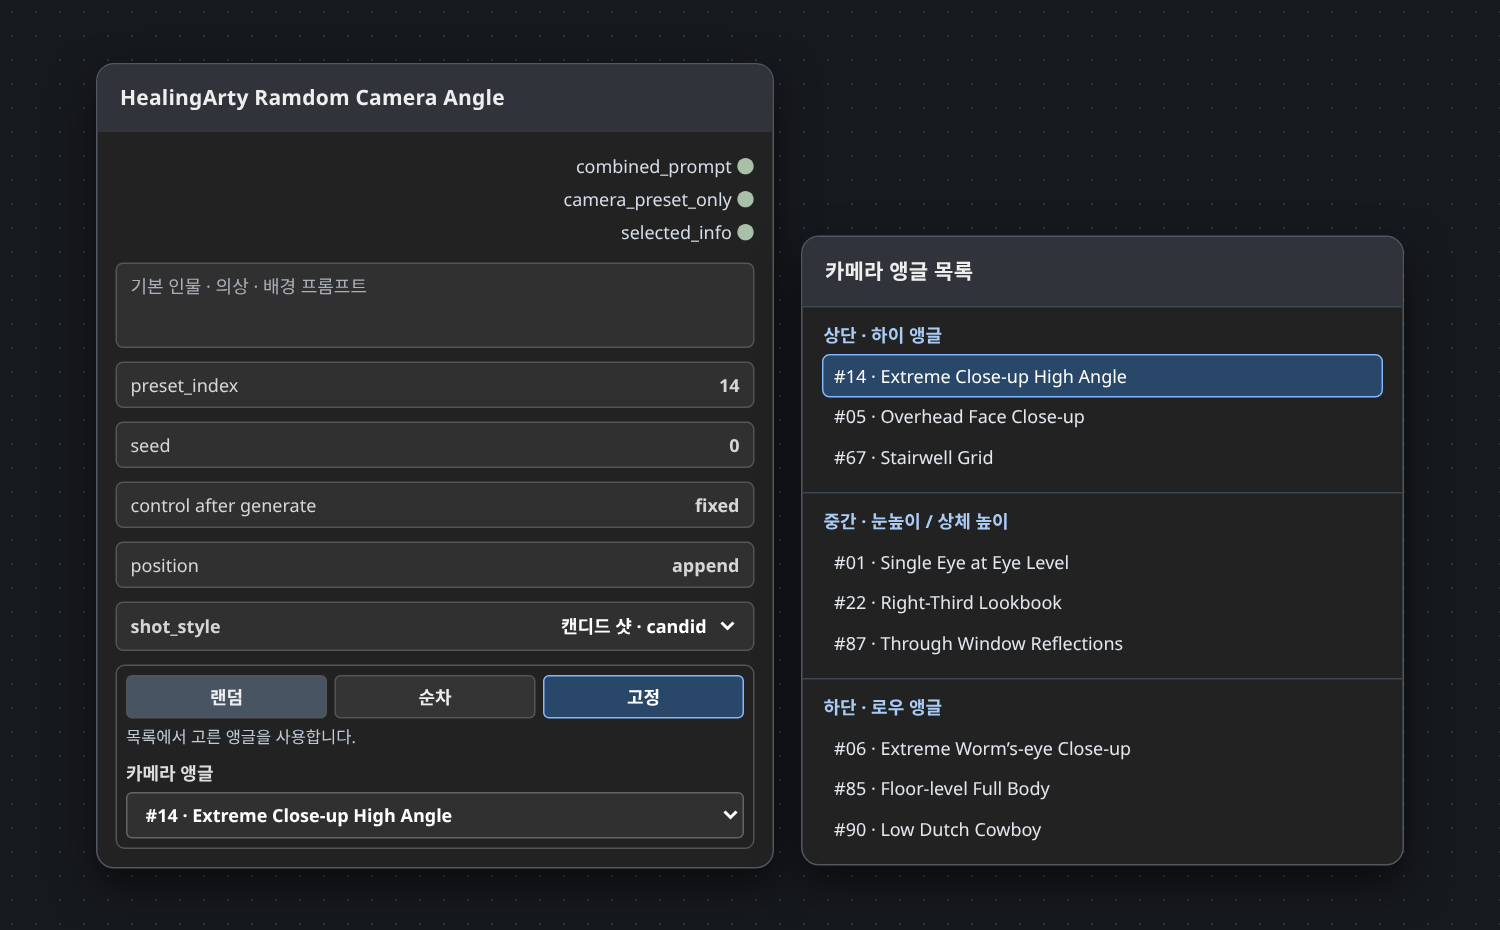
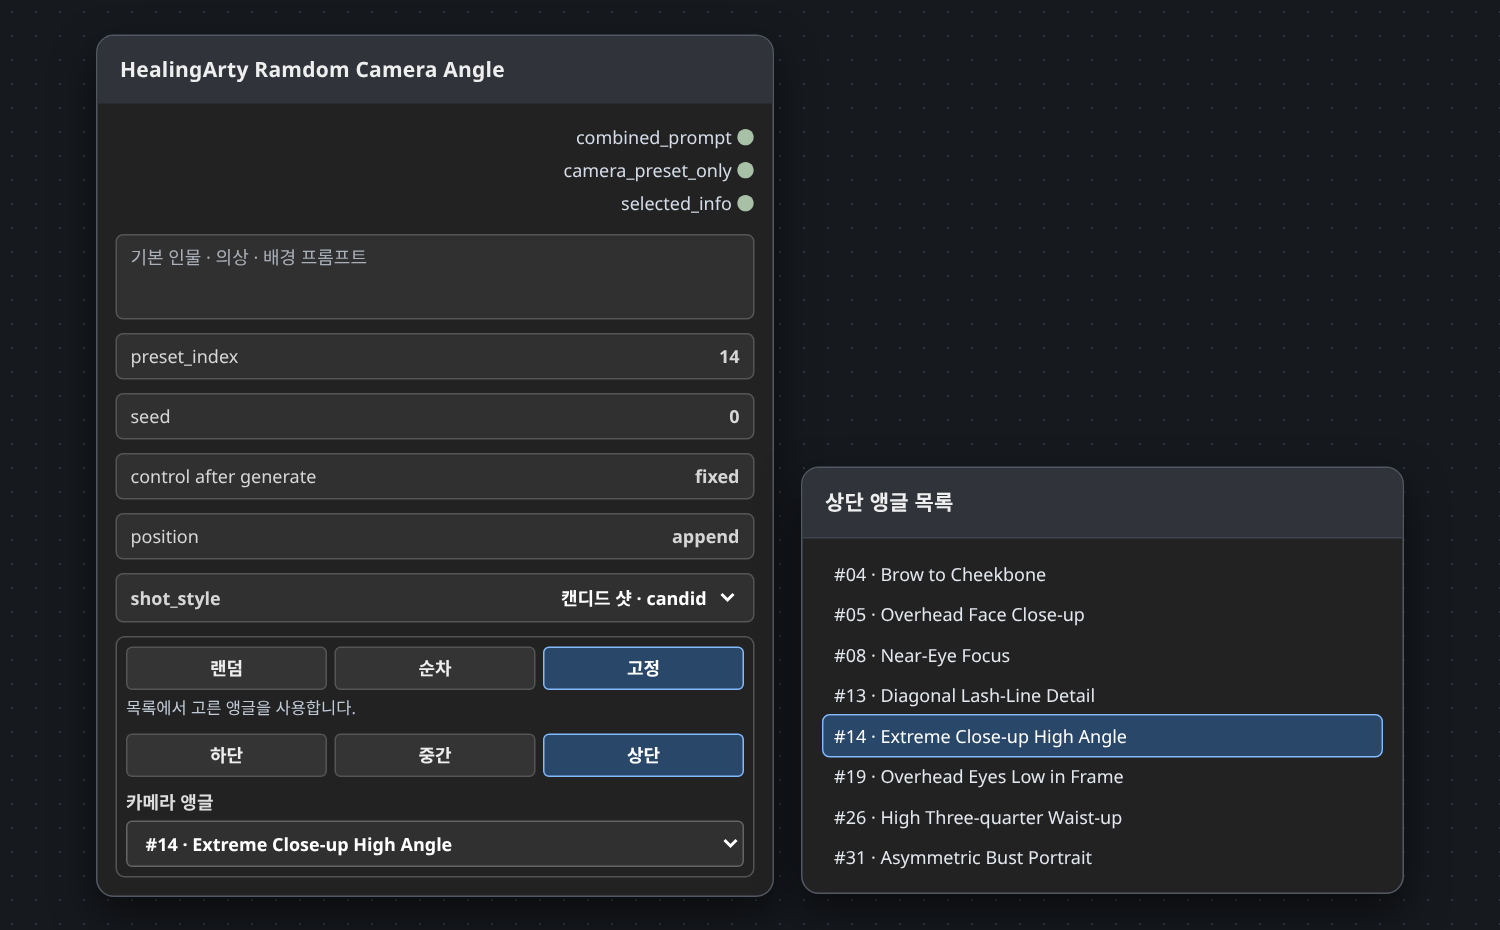
Filter manual camera angle choices by height

diff --git a/web/camera_design.js b/web/camera_design.js
@@ -1,6 +1,12 @@
 import { app } from "../../scripts/app.js";
 
 const NODE_TYPE = "CameraComposition100";
+const HEIGHTS = [
+    { value: "low", label: "하단" },
+    { value: "mid", label: "중간" },
+    { value: "high", label: "상단" },
+];
+const PANEL_HEIGHT = 152;
 const MODES = [
     { label: "랜덤", value: "랜덤 · random", api: "random", seedControl: "randomize", hint: "실행할 때마다 새 시드로 구도를 고릅니다." },
     { label: "순차", value: "순차 · sequential", api: "sequential", seedControl: "increment", hint: "시드 0부터 시작하면 01 → 100 순서로 촬영합니다." },
@@ -20,25 +26,49 @@ function addModePanel(node, modeWidget, indexWidget, presets) {
     hint.className = "ha-camera-mode-hint";
     panel.append(hint);
 
+    const heightRow = document.createElement("div");
+    heightRow.className = "ha-camera-mode-row ha-camera-height-row";
+    heightRow.setAttribute("role", "group");
+    heightRow.setAttribute("aria-label", "촬영 높이");
+    panel.append(heightRow);
+
     const picker = document.createElement("label");
     picker.className = "ha-camera-preset-picker";
     const caption = document.createElement("span");
     caption.textContent = "카메라 앵글";
     const select = document.createElement("select");
-    const placeholder = new Option("앵글 목록에서 선택", "");
-    placeholder.disabled = true;
-    select.append(placeholder);
-    let group;
-    for (const preset of presets) {
-        if (group?.label !== preset.group) {
-            group = document.createElement("optgroup");
-            group.label = preset.group;
-            select.append(group);
-        }
-        group.append(new Option(`#${String(preset.id).padStart(2, "0")} · ${preset.title}`, preset.id));
-    }
     picker.append(caption, select);
     panel.append(picker);
+
+    let height = "mid";
+    let renderedHeight;
+    let previousFixedIndex;
+    const heightButtons = HEIGHTS.map(({ value, label }) => {
+        const button = document.createElement("button");
+        button.type = "button";
+        button.textContent = label;
+        button.addEventListener("click", () => {
+            height = value;
+            refresh();
+        });
+        heightRow.append(button);
+        return button;
+    });
+
+    function renderHeight() {
+        if (height === renderedHeight) return;
+        renderedHeight = height;
+        heightButtons.forEach((button, index) => {
+            button.setAttribute("aria-pressed", String(HEIGHTS[index].value === height));
+        });
+
+        const placeholder = new Option("앵글 목록에서 선택", "");
+        placeholder.disabled = true;
+        const options = presets.filter((preset) => preset.height === height).map((preset) =>
+            new Option(`#${String(preset.id).padStart(2, "0")} · ${preset.title}`, preset.id)
+        );
+        select.replaceChildren(placeholder, ...options);
+    }
 
     const seedWidget = node.widgets.find((widget) => widget.name === "seed");
     const seedControl = seedWidget?.linkedWidgets?.find((widget) => widget.name === "control_after_generate")
@@ -76,11 +106,19 @@ function addModePanel(node, modeWidget, indexWidget, presets) {
         return button;
     });
 
-    function refresh() {
+    function refresh(restoring = false) {
         const active = MODES.findIndex(({ value, api }) => [value, api].includes(modeWidget.value));
         buttons.forEach((button, index) => button.setAttribute("aria-pressed", String(index === active)));
         const current = MODES[active];
-        const selected = current?.api === "fixed" ? String(indexWidget.value) : "";
+        const fixedIndex = current?.api === "fixed" ? Number(indexWidget.value) : undefined;
+        const fixedPreset = presets.find((preset) => preset.id === fixedIndex);
+        if (fixedPreset && (restoring || fixedIndex !== previousFixedIndex)) {
+            height = fixedPreset.height;
+        }
+        previousFixedIndex = fixedIndex;
+        renderHeight();
+
+        const selected = fixedPreset?.height === height ? String(fixedIndex) : "";
         if (select.value !== selected) select.value = selected;
         const message = current?.api === "random" && seedControl?.value !== "randomize"
             ? "같은 시드를 사용하면 같은 구도가 선택됩니다."
@@ -91,16 +129,16 @@ function addModePanel(node, modeWidget, indexWidget, presets) {
     node.addDOMWidget("camera_mode_panel", "healingarty-camera-panel", panel, {
         serialize: false,
         selectOn: [],
-        getMinHeight: () => 118,
-        getHeight: () => 118,
-        onDraw: refresh,
+        getMinHeight: () => PANEL_HEIGHT,
+        getHeight: () => PANEL_HEIGHT,
+        onDraw: () => refresh(),
     });
     // Keep the native value widget in the workflow and API serialization.
     modeWidget.type = "hidden";
     modeWidget.computeSize = () => [0, -4];
     modeWidget.draw = () => {};
     refresh();
-    return refresh;
+    return () => refresh(true);
 }
 
 app.registerExtension({
@@ -126,7 +164,7 @@ app.registerExtension({
             if (mode && index && presets?.length && this.addDOMWidget) {
                 this.refreshHealingArtyMode = addModePanel(this, mode, index, presets);
                 const [width, height] = this.computeSize();
-                this.setSize([Math.max(390, width), Math.max(362, height)]);
+                this.setSize([Math.max(390, width), Math.max(396, height)]);
             }
             return result;
         };

diff --git a/web/camera_design.css b/web/camera_design.css
@@ -4,7 +4,7 @@
     align-content: center;
     gap: 5px;
     width: 100%;
-    min-height: 118px;
+    min-height: 152px;
     padding: 6px;
     border: 1px solid #555;
     border-radius: 6px;
@@ -49,6 +49,10 @@
     color: #c0cad7;
     font-size: 11px;
     line-height: 15px;
+}
+
+.ha-camera-height-row {
+    margin-top: 4px;
 }
 
 .ha-camera-preset-picker {

diff --git a/nodes.py b/nodes.py
@@ -64,7 +64,12 @@ class CameraComposition100:
                 "mode": (list(MODE_LABELS), {
                     "tooltip": "랜덤: 시드로 선택 · 순차: 시드 0부터 01~100 반복 · 고정: 목록에서 선택한 앵글 사용",
                     "camera_presets": [
-                        {"id": preset["id"], "title": preset["title"], "group": label}
+                        {
+                            "id": preset["id"],
+                            "title": preset["title"],
+                            "group": label,
+                            "height": height,
+                        }
                         for height, label in HEIGHT_LABELS.items()
                         for preset in PRESETS
                         if preset["height"] == height
